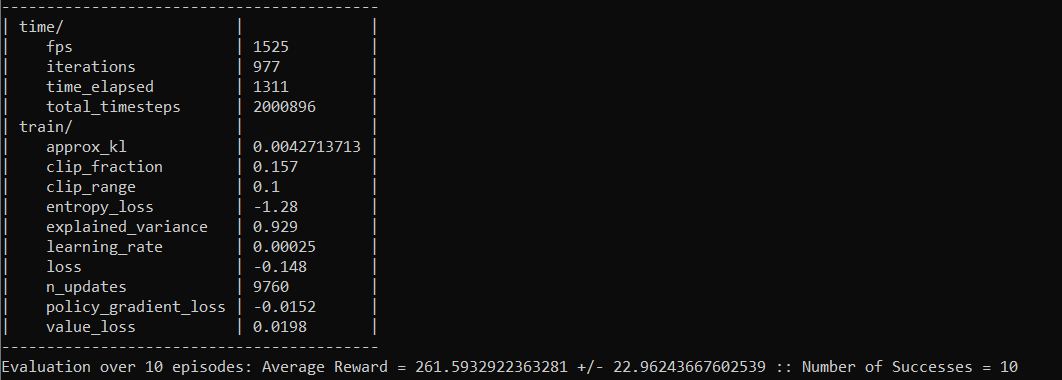
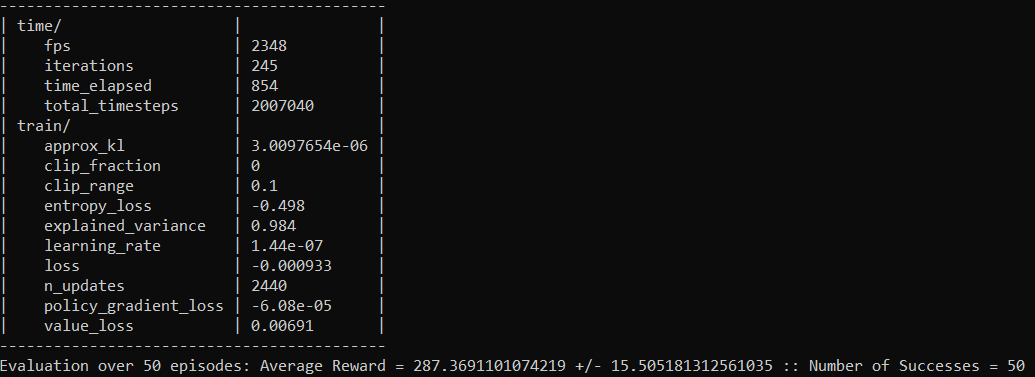
Update 21: Report, Image, PPO

Changed region(s): [[0.0, 0.0, 0.9894, 0.992]]

diff --git a/lunar_lander_ppo.py b/lunar_lander_ppo.py
@@ -2,12 +2,12 @@ from stable_baselines3 import PPO
 import gymnasium as gym
 import numpy as np
 import imageio # for creating a gif
-from stable_baselines3.common.vec_env import SubprocVecEnv, VecNormalize
+from stable_baselines3.common.vec_env import SubprocVecEnv, DummyVecEnv, VecNormalize
 
 class PPOAgent:
     def __init__(self, env="LunarLander-v3", device="cpu"):
         # wrap env and normalize obs and rewards (https://stable-baselines3.readthedocs.io/en/master/guide/vec_envs.html)
-        env_vec = SubprocVecEnv([lambda: gym.make("LunarLander-v3") for _ in range(4)])
+        env_vec = SubprocVecEnv([lambda: gym.make(env) for _ in range(4)])
         self.env = VecNormalize(env_vec)
         self.model = PPO(
             "MlpPolicy", # multilayer policy
@@ -62,19 +62,25 @@ class PPOAgent:
 def record(agent, env_name, filename="img/ppo_learning_lunar_lander.gif", episodes=10):
     frames = []
     env = gym.make(env_name, render_mode="rgb_array")
+    # Load the normalization stats for the environment that were saved before
+    env = DummyVecEnv([lambda: env])
+    env = VecNormalize.load("ppo/vecnormalize.pkl", env)
+    env.training = False
+    env.norm_reward = False
+
     frame_idx = 0
 
     for i in range(episodes):
-        state, _ = env.reset()
+        state = env.reset()
         done = False
 
         while not done:
-            if frame_idx % 2 == 0:
+            if frame_idx % 2 == 0: # reduce the number of frames captured due to RAM 
                 frame = env.render()
                 frames.append(frame)
-            action, _ = agent.model.predict([state], deterministic=True)
-            state, _, terminated, truncated, _ = env.step(action[0])
-            done = terminated or truncated
+
+            action, _ = agent.model.predict(state, deterministic=True)
+            state, reward, done, info = env.step(action)
             frame_idx += 1
 
     env.close()
@@ -85,7 +91,8 @@ def record(agent, env_name, filename="img/ppo_learning_lunar_lander.gif", episod
 def main():
     agent = PPOAgent()
     agent.train(timesteps=2_000_000) # timesteps attempted: 500_000, 1_500_000, 2_000_000, 5_000_000
-    
+    agent.env.save("ppo/vecnormalize.pkl")
+
     # evaluate on 10 episodes
     mean_reward, std_reward, success_count = agent.evaluate(episodes=50)
     print(f"Evaluation over 50 episodes: Average Reward = {mean_reward} +/- {std_reward} :: Number of Successes = {success_count}")    
